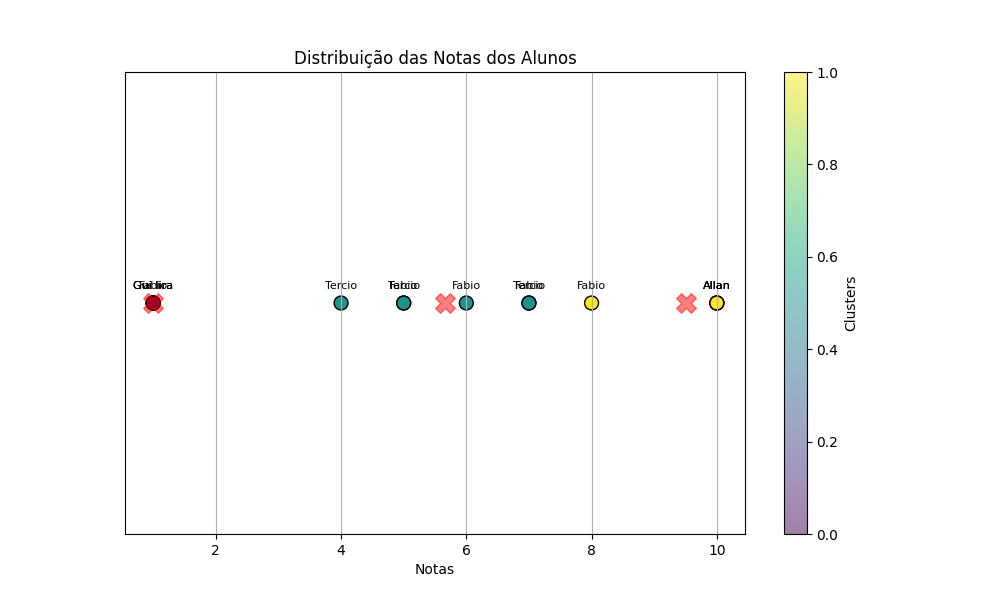
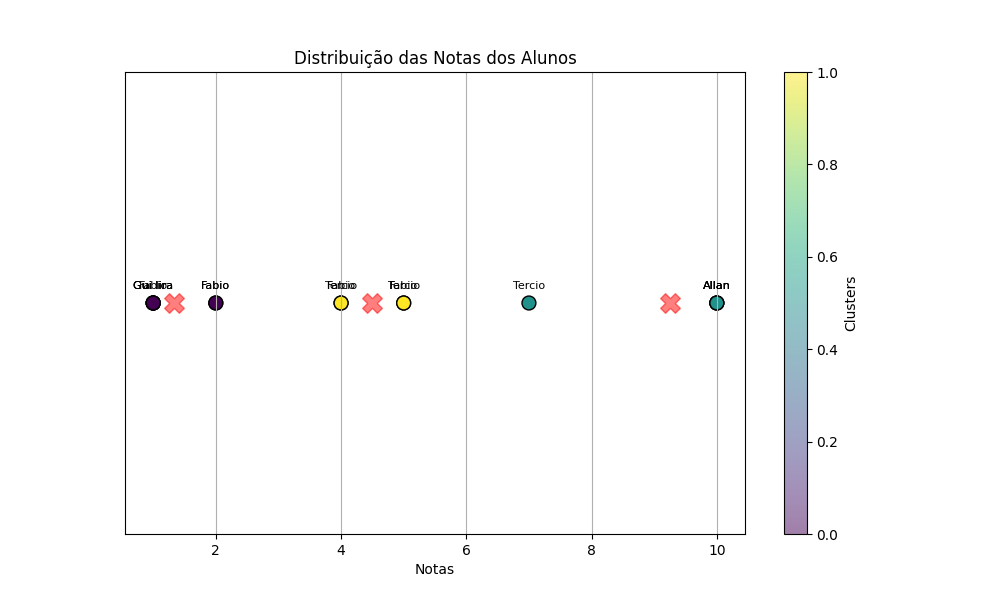
..

diff --git a/templates/analisar_desempenho.html b/templates/analisar_desempenho.html
@@ -57,6 +57,7 @@
         </ul>
 
         <div class="text-center mt-4">
+            <img src="{{ url_for('static', filename='images/'+student_performance_plot_url) }}" alt="Gráfico de Desempenho" class="img-fluid">
             <a href="{{ url_for('teacher.dashboard_professor') }}" class="btn btn-primary">Voltar ao Dashboard</a>
         </div>
     </div>

diff --git a/utils.py b/utils.py
@@ -8,24 +8,50 @@ import spacy
 from sklearn.linear_model import LinearRegression
 import matplotlib
 matplotlib.use('Agg')
+from collections import defaultdict
 
 nlp = spacy.load('pt_core_news_sm')
 
-def generate_plot(data, title, x_label, y_label):
+def generate_cluster_plot(X, labels, centroids, alunos_data):
+    # Converter os dados dos alunos para um formato que possa ser plotado
+    # Supondo que alunos_data seja uma lista de dicionários ou algo similar
+    perguntas = [d['pergunta'] for d in alunos_data]  # Exemplo de como extrair perguntas
+    aulas = [d['aula'] for d in alunos_data]  # Exemplo de como extrair aulas
+    scores = np.array([d['nota'] for d in alunos_data])  # Extrair notas
+    
+    # Agrupar por perguntas e aulas
+    unique_perguntas = list(set(perguntas))
+    unique_aulas = list(set(aulas))
+    
+    # Criar um dicionário para armazenar as notas por pergunta e aula
+    performance_data = {pergunta: [] for pergunta in unique_perguntas}
+    
+    for pergunta in unique_perguntas:
+        for aula in unique_aulas:
+            filtered_scores = [scores[i] for i in range(len(perguntas)) if perguntas[i] == pergunta and aulas[i] == aula]
+            performance_data[pergunta].append(np.mean(filtered_scores) if filtered_scores else 0)
+
+    # Criar o gráfico de barras
     fig, ax = plt.subplots()
-    ax.bar(data.keys(), data.values(), color='blue')
-    ax.set_title(title)
-    ax.set_xlabel(x_label)
-    ax.set_ylabel(y_label)
+    width = 0.15  # Largura das barras
+    x = np.arange(len(unique_aulas))
+
+    for i, pergunta in enumerate(unique_perguntas):
+        ax.bar(x + i * width, performance_data[pergunta], width, label=pergunta)
+
+    ax.set_xlabel('Aulas')
+    ax.set_ylabel('Média das Notas')
+    ax.set_title('Desempenho dos Alunos por Pergunta e Aula')
+    ax.set_xticks(x + width / 2)
+    ax.set_xticklabels(unique_aulas)
+    ax.legend()
+
+    # Salvar o gráfico e retornar a URL
+    plot_path = 'static/plots/performance_plot.png'
+    plt.savefig(plot_path)
+    plt.close()
     
-    # Converte o gráfico para base64
-    img = io.BytesIO()
-    plt.savefig(img, format='png')
-    img.seek(0)
-    plot_url = base64.b64encode(img.getvalue()).decode()
-    plt.close(fig)
-    
-    return plot_url
+    return plot_path
 
 def kmeans_clustering(alunos_data):
     notas = np.array([nota for _, _, nota, _ in alunos_data]).reshape(-1, 1)
@@ -65,11 +91,39 @@ def generate_cluster_plot(X, labels, centroids, alunos_data):
 
 
 
-def extract_keywords(text):
-    doc = nlp(text)
-    keywords = [token.lemma_ for token in doc if not token.is_stop and not token.is_punct][:3]
-    return keywords
+def generate_student_performance_plot(alunos_data):
+    if not alunos_data or not isinstance(alunos_data, list):
+        raise ValueError("alunos_data deve ser uma lista.")
+    notas_por_aluno = defaultdict(float)
+    for aluno in alunos_data:
+        nota = aluno[2]
+        nome = aluno[1]  
+        
+        print(f"Processando aluno: {nome}, Nota: {nota}") 
+        
+        try:
+            nota = float(nota)
+        except ValueError:
+            raise ValueError(f"A nota '{nota}' para o aluno '{nome}' não é um número válido.")
+        
+        notas_por_aluno[nome] += nota
 
+    alunos_nomes = list(notas_por_aluno.keys())
+    alunos_notas = list(notas_por_aluno.values())
+    alunos_data_sorted = zip(alunos_nomes, alunos_notas)
+    alunos_nomes_sorted, alunos_notas_sorted = zip(*alunos_data_sorted)
+    fig, ax = plt.subplots(figsize=(10, 6))
+    ax.barh(alunos_nomes_sorted, alunos_notas_sorted, color='skyblue')
+    ax.set_xlabel('Notas')
+    ax.set_ylabel('Alunos')
+    ax.set_title('Desempenho dos Alunos (Soma das Notas)')
+    for index, value in enumerate(alunos_notas_sorted):
+        ax.text(value, index, str(value))
+    student_performance_plot_path = 'static/images/Performance.png'
+    plt.savefig(student_performance_plot_path)
+    plt.close()
+
+    return 'Performance.png'
 def generate_performance_plot(alunos_data):
     plt.figure(figsize=(10, 6))
     

diff --git a/routes/teacher_routes.py b/routes/teacher_routes.py
@@ -2,8 +2,8 @@ from flask import Blueprint, render_template, session, redirect, url_for, reques
 import os
 import numpy as np
 from werkzeug.utils import secure_filename
-from models import get_db, find_user_by_id, criar_aula, get_aulas_by_professor, get_respostas_by_aula, get_progresso_by_aula, get_alunos, Adicionar_nota, resp_aluno
-from utils import  generate_performance_plot
+from models import get_db, find_user_by_id, criar_aula, get_aulas_by_professor, get_respostas_by_aula, get_progresso_by_aula, get_alunos, Adicionar_nota, resp_aluno, update_nota_resposta, get_student_scores
+from utils import  generate_performance_plot,kmeans_clustering,generate_cluster_plot, generate_student_performance_plot
 import sqlite3
 
 teacher_bp = Blueprint('teacher', __name__)
@@ -186,7 +186,6 @@ def analisar_desempenho():
 
     # Obter notas dos alunos
     alunos_data = get_student_scores()
-    print(alunos_data)
 
     if not alunos_data:
         flash("Nenhum dado disponível para análise.", "error")
@@ -195,7 +194,6 @@ def analisar_desempenho():
     # Agrupar os alunos usando K-Means
     X, labels, centroids = kmeans_clustering(alunos_data)
 
-
     if X is None or labels is None or centroids is None:
         flash("Erro ao realizar clustering. Verifique os dados.", "error")
         return redirect(url_for('teacher.dashboard_professor'))
@@ -203,7 +201,11 @@ def analisar_desempenho():
     # Gerar o gráfico dos clusters
     plot_url = generate_cluster_plot(X, labels, centroids, alunos_data)
     print(plot_url)
-    return render_template('analisar_desempenho.html', plot_url=plot_url, alunos_data=alunos_data)
+    student_performance_plot_url = generate_student_performance_plot(alunos_data)
+
+    return render_template('analisar_desempenho.html', plot_url=plot_url, 
+                           student_performance_plot_url=student_performance_plot_url, 
+                           alunos_data=alunos_data)
 
 
 
